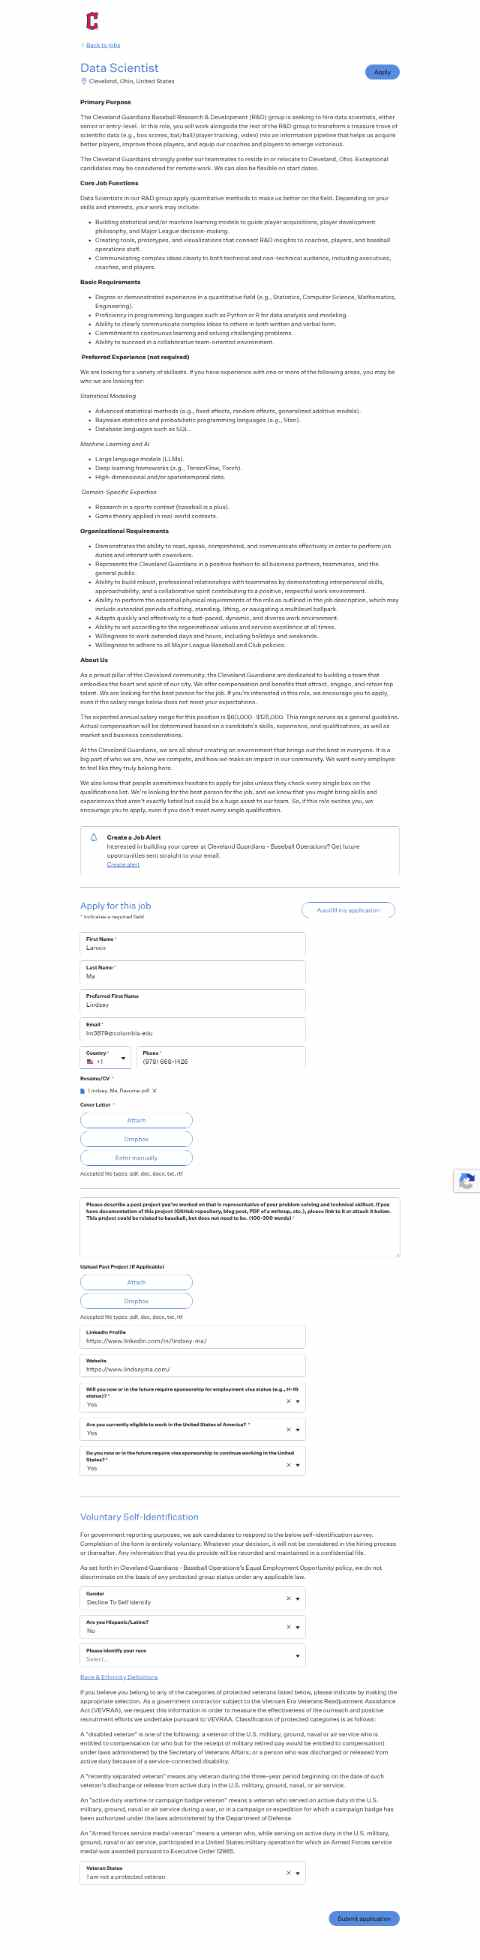
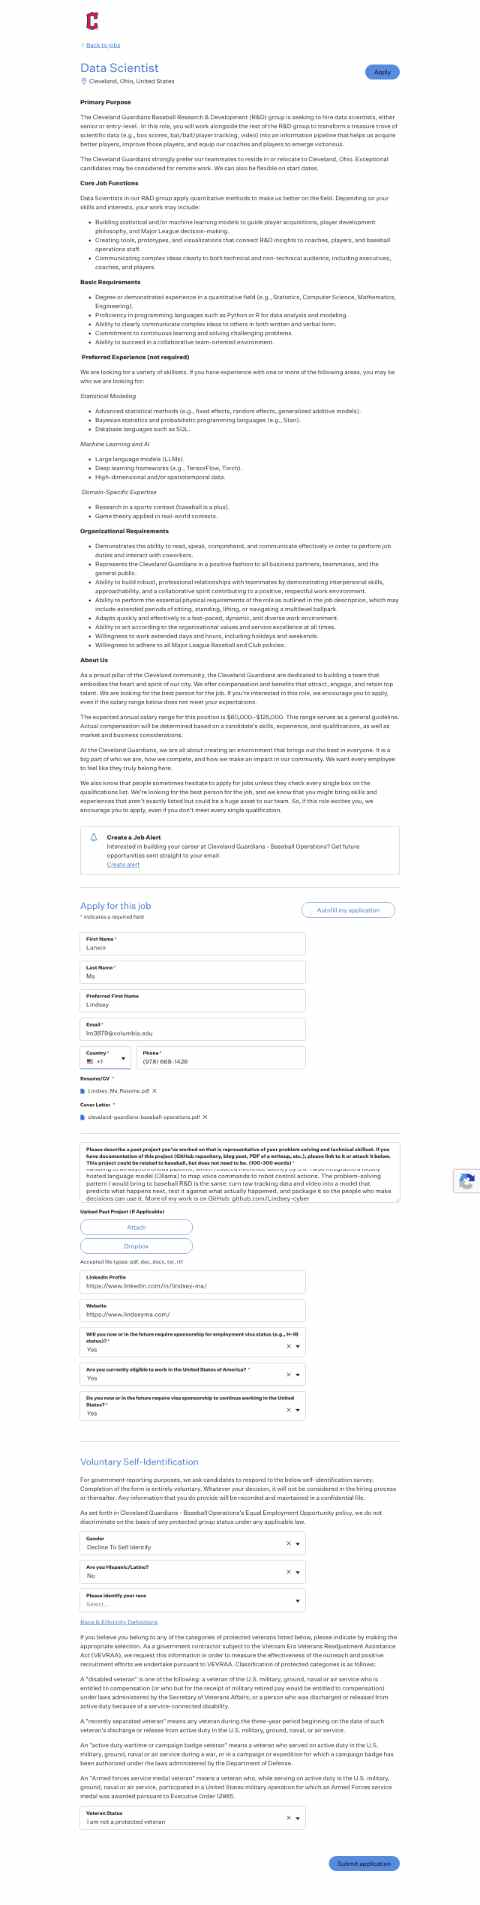
jh reconcile: an employer's receipt email confirms an unconfirmed application (Scopely, Asana, MAP)
Claude-Session: https://claude.ai/code/session_01LthPYPCFWW6DXaP1StUSyu

Changed region(s): [[0.1562, 0.0, 0.8438, 0.9911], [0.9375, 0.5885, 1.0, 0.6194], [0.7812, 0.1858, 0.8125, 0.2168]]

diff --git a/src/cli.ts b/src/cli.ts
@@ -12,7 +12,8 @@ import { triage } from "./discover/triage.ts";
 import { runAuditor } from "./org/auditor.ts";
 import { draftAnswers } from "./org/drafter.ts";
 import { modelTriage } from "./org/triager.ts";
-import { authUrl, fetchAlerts, finishAuth, gmailConfigured } from "./sources/gmail.ts";
+import { authUrl, fetchAlerts, finishAuth, gmailConfigured, recentHeaders } from "./sources/gmail.ts";
+import { receiptFor } from "./verify/reconcile.ts";
 import { daily, scoreLatestAudit, writeReport } from "./org/coordinator.ts";
 import { candidateFacts, discover } from "./run/discover.ts";
 import { serve } from "./run/serve.ts";
@@ -45,6 +46,7 @@ const USAGE = `jh <command>
                                        yes → match, no → reject, unsure stays; default 300 a run
   holds                                why applications are held, grouped: needs your answer, site mechanics
                                        (for an engineering session), or held by design
+  reconcile                            mark unconfirmed applications confirmed when the employer's receipt email arrived
   apply-approved [--limit <n>]         submit postings you approved (fit labels) that have an adapter, within the
                                        daily cap; skips excluded employers and anything already applied to
   draft                                draft answers to postings' own questions (why this role, have you built X)
@@ -201,6 +203,36 @@ switch (command) {
   case "triage-model": {
     const r = await modelTriage(user(), { limit: Number(values.limit ?? 300), log: (s) => console.error(s) });
     console.log(`model triage (${r.model}): judged ${r.judged}: ${r.yes} fit → match, ${r.no} not fit → reject, ${r.unsure} unsure`);
+    break;
+  }
+  case "reconcile": {
+    // Applications left unconfirmed whose employer has since emailed a receipt become confirmed.
+    const u = user();
+    const ledger = ledgerOf(u.dir);
+    const open = ledger.latest().filter((e) => e.state === "unconfirmed");
+    if (!open.length || !gmailConfigured()) {
+      console.log(open.length ? "Gmail is not authorized; nothing checked" : "no unconfirmed applications");
+      break;
+    }
+    const mail = await recentHeaders("newer_than:30d -in:sent (subject:application OR subject:applying OR subject:applied)", 400);
+    for (const e of open) {
+      const submitted = ledger.history(e.key).findLast((x) => x.state === "submitted")?.at ?? e.at;
+      const plan = (() => {
+        try {
+          return JSON.parse(readFileSync(join(e.runDir, "plan.json"), "utf8")) as { form?: { company?: string } };
+        } catch {
+          return {};
+        }
+      })();
+      const company = plan.form?.company ?? "";
+      const hit = company ? receiptFor(company, submitted, mail) : undefined;
+      if (!hit) {
+        console.log(`still unconfirmed: ${e.key}${company ? ` (${company})` : ""}`);
+        continue;
+      }
+      ledger.transition(e.key, "confirmed", e.runDir, { email: hit });
+      console.log(`confirmed by email: ${company}: "${hit.subject}" (${hit.date})`);
+    }
     break;
   }
   case "holds": {

diff --git a/src/verify/reconcile.ts b/src/verify/reconcile.ts
@@ -1,0 +1,26 @@
+// Matches an employer's "thank you for applying" email to an application whose
+// confirmation page never showed. Pure: the caller fetches the mail.
+export interface MailHeader {
+  subject: string;
+  sender: string;
+  date: string;
+}
+
+const RECEIVED = /\b(thanks?( you)? for (applying|your (application|interest))|application (received|submitted|confirmation)|we('ve| have) received your application|your application (to|for|at|with)|you('ve| have) applied)\b/i;
+const NOT_RECEIPT = /\b(security code|verify|verification|update on your application|unfortunately|next steps|interview)\b/i;
+
+// The company's own words: "DoorDash USA" -> "doordash"; "Black Canyon Consulting" -> "black canyon".
+function names(company: string): string[] {
+  const words = company.toLowerCase().replace(/[^a-z0-9 ]+/g, " ").split(/\s+/).filter((w) => w && !/^(inc|llc|usa|us|the|campus|careers|corp|corporation|co)$/.test(w));
+  return [...new Set([words.slice(0, 2).join(" "), words[0] ?? ""].filter((x) => x.length >= 3))];
+}
+
+export function receiptFor(company: string, submittedAt: string, mail: MailHeader[]): MailHeader | undefined {
+  const keys = names(company);
+  const since = Date.parse(submittedAt) - 60_000;
+  return mail.find((m) => {
+    if (Date.parse(m.date) < since || !RECEIVED.test(m.subject) || NOT_RECEIPT.test(m.subject)) return false;
+    const where = `${m.subject} ${m.sender}`.toLowerCase().replace(/[^a-z0-9 ]+/g, " ");
+    return keys.some((k) => where.includes(k));
+  });
+}

diff --git a/src/sources/gmail.ts b/src/sources/gmail.ts
@@ -212,3 +212,22 @@ export async function waitForEmailLink(host: string, since: Date, timeoutMs = 18
   }
   return undefined;
 }
+
+// Subjects, senders and dates of recent messages matching a query. Read-only.
+export async function recentHeaders(query: string, max = 200): Promise<{ subject: string; sender: string; date: string }[]> {
+  const token = await accessToken();
+  const get = async <T>(url: string) => (await (await fetch(url, { headers: { authorization: `Bearer ${token}` } })).json()) as T;
+  const out = [];
+  let page: string | undefined;
+  do {
+    const q = new URLSearchParams({ q: query, maxResults: "100", ...(page ? { pageToken: page } : {}) });
+    const list = await get<{ messages?: { id: string }[]; nextPageToken?: string }>(`${API}/messages?${q}`);
+    for (const { id } of list.messages ?? []) {
+      const m = await get<GmailMessage>(`${API}/messages/${id}?format=metadata&metadataHeaders=Subject&metadataHeaders=From`);
+      const a = toAlert(m);
+      out.push({ subject: a.subject, sender: a.sender, date: a.date });
+    }
+    page = list.nextPageToken;
+  } while (page && out.length < max);
+  return out;
+}

diff --git a/tests/reconcile.test.ts b/tests/reconcile.test.ts
@@ -1,0 +1,17 @@
+import { describe, expect, it } from "vitest";
+import { receiptFor } from "../src/verify/reconcile.ts";
+
+describe("receipt emails", () => {
+  const at = "2026-10-29T09:20:00Z";
+  it("matches the employer's thank-you after the submit, and nothing else", () => {
+    const mail = [
+      { subject: "Security code for your application to Asana", sender: "no-reply@us.greenhouse-mail.io", date: "2026-10-29T09:20:30Z" },
+      { subject: "Thank you for your application to Asana!", sender: "no-reply@asana.com", date: "2026-10-29T09:21:00Z" },
+      { subject: "Thank you for applying to Tubi!", sender: "no-reply@us.greenhouse-mail.io", date: "2026-10-29T09:22:00Z" },
+    ];
+    expect(receiptFor("Asana", at, mail)?.subject).toBe("Thank you for your application to Asana!");
+    expect(receiptFor("Klaviyo Campus", at, mail)).toBeUndefined();
+    expect(receiptFor("Asana", "2026-10-29T10:00:00Z", mail)).toBeUndefined();
+    expect(receiptFor("DoorDash USA", at, [{ subject: "Thanks for applying to DoorDash", sender: "x@doordash.com", date: "2026-10-29T09:30:00Z" }])).toBeDefined();
+  });
+});
